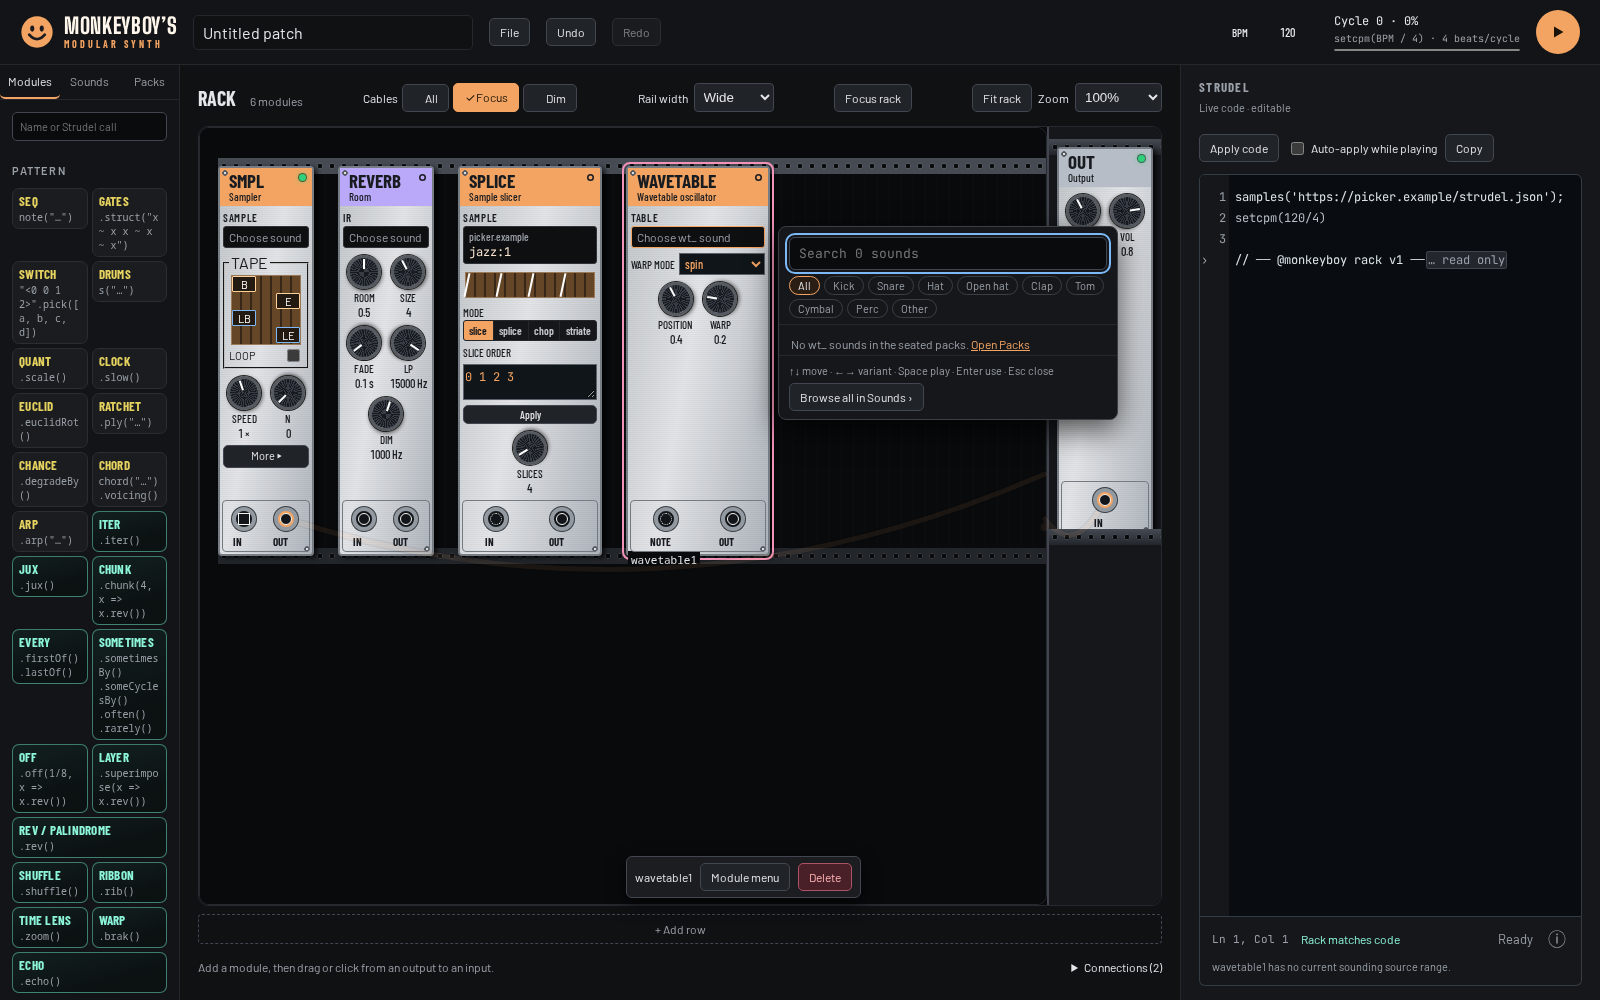
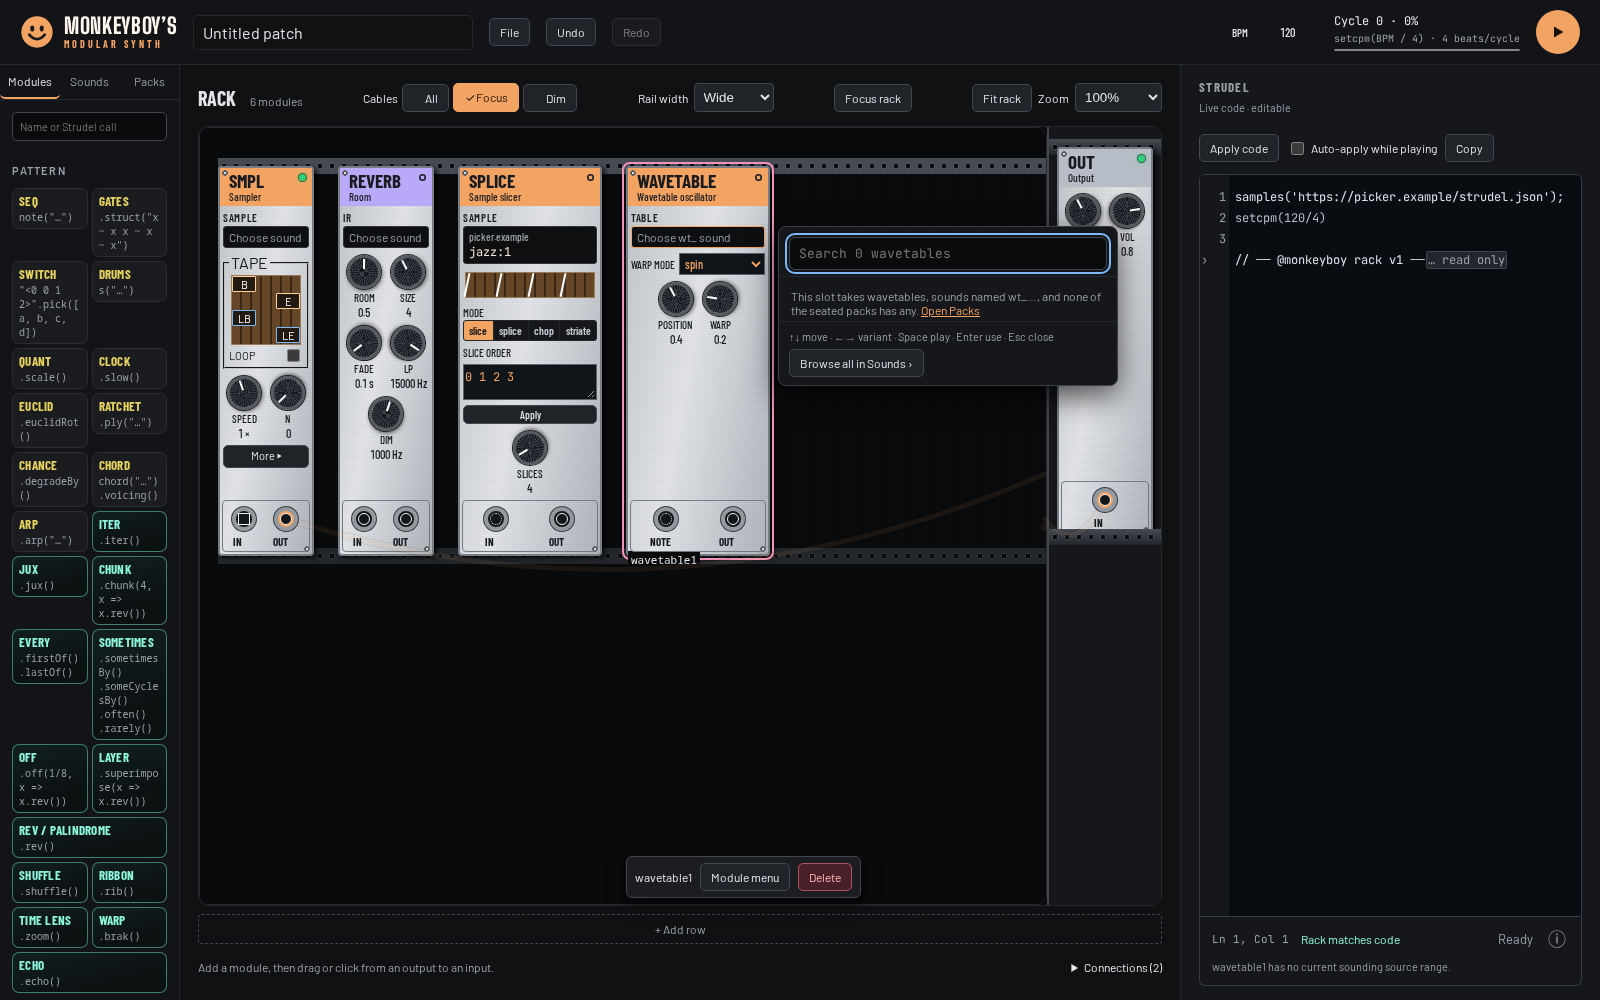
Show sounds as soon as a picker opens and stop false "not loaded" flags
Owner review found the picker looked flaky. Packs load on first use, so
after a reload every filled readout claimed its sound was "not loaded"
even with both packs seated. Readouts now judge a value only once every
seated inventory is known. The first view also lists the slot's sounds
after the patch's and recent ones, so it is never empty while packs are
seated, and seated packs keep their seating order. WAVETABLE drops the
drum kind chips and explains that it takes wt_ wavetables.

Changed region(s): [[0.4688, 0.248, 0.6875, 0.434], [0.6562, 0.372, 0.7188, 0.465]]

diff --git a/src/samples/SoundPicker.tsx b/src/samples/SoundPicker.tsx
@@ -122,24 +122,23 @@ export function SoundPicker({
   const index = soundIndex(resources).filter((sound) => !prefix || sound.name.startsWith(prefix))
   const packs = [...new Map(index.map((sound) => [sound.packKey, sound.pack]))]
   const filtered = !!query.trim() || !!kind || !!pack
-  const found = filtered
-    ? findSounds(index, { text: query, kind, pack }).map((sound): Row => ({
-        key: sound.name,
-        group: sound.pack,
-        groupKey: sound.packKey,
-        sound,
-        n: 0,
-      }))
-    : []
+  // Unfiltered, the list still shows sounds after the patch's and recent ones, so it never looks empty.
+  const found = (filtered ? findSounds(index, { text: query, kind, pack }) : index).map(
+    (sound): Row => ({ key: sound.name, group: sound.pack, groupKey: sound.packKey, sound, n: 0 }),
+  )
   const own = parseToken(value)
+  const listed = byPack(found.slice(0, SHOWN)).map((row) =>
+    row.sound.name === own?.name ? { ...row, n: own.n } : row,
+  )
   const rows = filtered
-    ? byPack(found.slice(0, SHOWN)).map((row) =>
-        row.sound.name === own?.name ? { ...row, n: own.n } : row,
-      )
-    : homeRows(resources, prefix, [
-        ['In this patch', patchSounds],
-        ['Recent', recentSounds()],
-      ])
+    ? listed
+    : [
+        ...homeRows(resources, prefix, [
+          ['In this patch', patchSounds],
+          ['Recent', recentSounds()],
+        ]),
+        ...listed,
+      ]
   const at = Math.min(active, rows.length - 1)
   const row = rows[at]
   const variant = (row: Row) => variants.get(row.key) ?? row.n
@@ -223,7 +222,7 @@ export function SoundPicker({
         aria-controls={`${id}-list`}
         aria-autocomplete="list"
         aria-activedescendant={row ? `${id}-${row.key}` : undefined}
-        placeholder={`Search ${index.length} sounds`}
+        placeholder={`Search ${index.length} ${prefix ? 'wavetable' : 'sound'}${index.length === 1 ? '' : 's'}`}
         value={query}
         onChange={(event) => {
           setQuery(event.target.value)
@@ -246,23 +245,26 @@ export function SoundPicker({
           action()
         }}
       />
-      <fieldset className="sound-picker-chips">
-        <legend className="sr-only">Kind</legend>
-        {([null, ...SOUND_KINDS] as const).map((option) => (
-          <button
-            key={option ?? 'All'}
-            type="button"
-            aria-pressed={kind === option}
-            onClick={() => {
-              setKind(kind === option ? null : option)
-              setActive(0)
-              refocus()
-            }}
-          >
-            {option ?? 'All'}
-          </button>
-        ))}
-      </fieldset>
+      {/* Kinds name drum sounds; a prefixed slot such as WAVETABLE has none. */}
+      {!prefix && (
+        <fieldset className="sound-picker-chips">
+          <legend className="sr-only">Kind</legend>
+          {([null, ...SOUND_KINDS] as const).map((option) => (
+            <button
+              key={option ?? 'All'}
+              type="button"
+              aria-pressed={kind === option}
+              onClick={() => {
+                setKind(kind === option ? null : option)
+                setActive(0)
+                refocus()
+              }}
+            >
+              {option ?? 'All'}
+            </button>
+          ))}
+        </fieldset>
+      )}
       {packs.length > 2 && (
         <fieldset className="sound-picker-chips">
           <legend className="sr-only">Pack</legend>
@@ -353,8 +355,8 @@ export function SoundPicker({
         {!busy && !playable && (
           <span>
             {prefix
-              ? `No ${prefix} sounds in the seated packs. `
-              : 'No sounds in the seated packs. '}
+              ? `This slot takes wavetables, sounds named ${prefix}…, and none of the seated packs has any. `
+              : 'The seated packs have no sounds. '}
             <button type="button" className="sound-picker-link" onClick={openPacks}>
               Open Packs
             </button>
@@ -366,9 +368,9 @@ export function SoundPicker({
         {found.length > SHOWN && (
           <span>
             Showing {SHOWN} of {found.length}
+            {filtered ? '' : '. Type to narrow, or pick a kind.'}
           </span>
         )}
-        {playable && !filtered && !rows.length && <span>Type to search, or pick a kind.</span>}
         {error && <span role="alert">{error}</span>}
       </output>
       <div className="sound-picker-footer">

diff --git a/src/samples/SamplePanel.tsx b/src/samples/SamplePanel.tsx
@@ -14,6 +14,7 @@ export function SampleSlot({
   patchSounds,
   locked,
   picking,
+  settled,
   drop,
   clear,
   browseAll,
@@ -27,6 +28,8 @@ export function SampleSlot({
   locked: boolean
   /** The Sounds dock is choosing for this slot. */
   picking: boolean
+  /** Every seated pack's inventory is known, so a sound none of them has is missing. */
+  settled: boolean
   /** Returns false when the rack refused the edit and reported why. */
   drop: (choice: SoundChoice) => boolean
   clear: () => void
@@ -41,21 +44,18 @@ export function SampleSlot({
   const value = slotValue(module)
   const choice = parseToken(value)
   const sound = choice ? findSound(resources, choice.name) : undefined
-  const loaded = !!choice && !!sound && choice.n < sound.count
+  // Packs load on first use, so before that a slot cannot tell a missing sound from an unloaded one.
+  const missing = !!value && settled && !(choice && sound && choice.n < sound.count)
   const parts = choice ? (sound ?? soundParts(choice.name, '')) : { bank: '', short: value }
   const caption = module.type === 'reverb' ? 'IR' : module.type === 'wavetable' ? 'TABLE' : 'SAMPLE'
   return (
-    <div
-      className="sample-slot"
-      data-value={value}
-      data-state={value && !loaded ? 'missing' : undefined}
-    >
+    <div className="sample-slot" data-value={value} data-state={missing ? 'missing' : undefined}>
       <span className="sample-slot-caption">{caption}</span>
       <button
         ref={readout}
         type="button"
         className="sample-readout"
-        aria-label={`Sound for ${module.id}: ${value || 'none'}${value && !loaded ? ', not loaded' : ''}`}
+        aria-label={`Sound for ${module.id}: ${value || 'none'}${missing ? ', not loaded' : ''}`}
         aria-haspopup="dialog"
         aria-expanded={open && !locked}
         title={value || undefined}
@@ -73,7 +73,7 @@ export function SampleSlot({
             <span className="sample-readout-token">
               {choice ? `${parts.short}:${choice.n}` : value}
             </span>
-            {!loaded && <span className="sample-readout-missing">not loaded</span>}
+            {missing && <span className="sample-readout-missing">not loaded</span>}
           </>
         ) : (
           <span className="sample-readout-empty">

diff --git a/src/rack/Rack.tsx b/src/rack/Rack.tsx
@@ -17,6 +17,7 @@ import { rememberSound } from '../samples/recentSounds'
 import type { SoundPick } from '../samples/SoundCrate'
 import { loadSamplePacks, type SamplePackResource } from '../strudel/engine'
 import { cartridges } from '../workspace/cartridges'
+import { packKey } from '../samples/packs'
 import {
   useEffect,
   useLayoutEffect,
@@ -709,6 +710,19 @@ export function Rack({
   const loadSounds = () =>
     loadSamplePacks(cartridges(sourceDocument).flatMap((entry) => (entry.pack ? [entry.pack] : [])))
   const patchSounds = patch.modules.map(slotValue).filter(Boolean)
+  // Unknown inventories, such as computed samples() calls, never settle.
+  const settled = cartridges(sourceDocument).every((entry) => {
+    const pack = entry.pack
+    return (
+      !!pack &&
+      sampleResources.some(
+        (resource) =>
+          resource.key === packKey(pack) &&
+          (resource.status === 'failed' ||
+            (resource.status === 'registered' && resource.sampleCount !== null)),
+      )
+    )
+  })
   const renderModules = (modules: Patch['modules']) =>
     modules.map((m) => {
       const spec = getModuleSpec(m.type)
@@ -848,6 +862,7 @@ export function Rack({
               patchSounds={patchSounds}
               locked={locked}
               picking={activePick?.module === m.id}
+              settled={settled}
               clear={() => {
                 const target = spec.sampleTarget
                 if (target) edit((p) => setValue(p, m.id, target.control, ''))

diff --git a/src/samples/crate.ts b/src/samples/crate.ts
@@ -67,6 +67,7 @@ export function variantCount(bank: SampleBank): number {
     ? bank.length
     : Math.max(0, ...Object.values(bank).map((paths) => paths.length))
 }
+/** Seated resources in cartridge order: factory packs, then setup order, which is how they register. */
 export function seatedResources(
   document: SourceDocument,
   resources: readonly SamplePackResource[],
@@ -74,7 +75,7 @@ export function seatedResources(
   const keys = new Set(
     cartridges(document).flatMap((entry) => (entry.pack ? [packKey(entry.pack)] : [])),
   )
-  return resources.filter((resource) => keys.has(resource.key))
+  return [...keys].flatMap((key) => resources.filter((resource) => resource.key === key))
 }
 
 /** Replace sounding atoms in one row, retaining rests, nesting and timing modifiers. */

diff --git a/docs/sound-crate.md b/docs/sound-crate.md
@@ -151,10 +151,12 @@ a readout, a search popup and a pick mode in the Sounds dock.
 Line one names the bank or pack (`RolandTR808`, `Dirt Samples`); line two, in
 monospace, is the rest of the token (`bd:3`, `808bd:3`). Long names end in an
 ellipsis. The accessible name and tooltip carry the full token. An empty slot reads
-“Choose sound” (“Choose wt\_ sound” on WAVETABLE). A value that no seated pack
-provides keeps its token, gains a dashed border and reads “not loaded”, as the old
-selector's “unavailable” option did. The whole panel still accepts dropped cards
-(#185).
+“Choose sound” (“Choose wt\_ sound” on WAVETABLE). Packs load on first use, so
+until every seated pack's inventory is known a filled slot shows its token without
+judging it. After that, a value that no seated pack provides gains a dashed border
+and reads “not loaded”, as the old selector's “unavailable” option did. Computed
+`samples()` setup never settles, so it never marks a slot missing. The whole panel
+still accepts dropped cards (#185).
 
 ### Search popup
 
@@ -163,21 +165,24 @@ its search box. Opening it loads the seated packs, as a first visit to Sounds do
 while they load, a loading line shows under any matches from loaded packs.
 
 - With no query or filter, it lists **In this patch** (the other slots' tokens) and
-  **Recent** (the last five sounds chosen this session; nothing is saved).
+  **Recent** (the last five sounds chosen this session; nothing is saved), then the
+  slot's sounds in pack order, so a seated pack's sounds always show. Packs appear
+  in seating order: factory packs, then setup order.
 - Results have one row per sound, grouped by pack, capped at 40 with “Showing 40 of
   N”. Ranking: the name starts with the query; then the part after the bank (`bd`
   in `RolandTR808_bd`) does; then the name contains it; then the kind does, so
   `kick` finds kicks. Ties keep pack and manifest order. A name repeated across packs
   keeps one row, the last registration, which is the one Strudel plays. Sounds with
   no variants are left out.
-- Kind chips filter the rows. With three or more seated packs, pack chips appear too.
+- Kind chips filter the rows. WAVETABLE has none, because kinds name drum sounds.
+  With three or more seated packs, pack chips appear too.
 - ↑/↓ move the active row. ←/→ change its variant and play it. Space plays it
   again, Enter chooses it, and Esc or a click outside closes with no change. Clicking
   a row chooses it, and the active row shows ‹ › for pointer flipping. Space never
   types, because sound names cannot contain spaces.
 - The footer offers **Browse all in Sounds ›** and, for a filled slot, **Clear slot**.
 - WAVETABLE lists only `wt_` sounds. Neither factory pack has any, so its empty state
-  points to Packs.
+  says that the slot takes wavetables, named `wt_…`, and points to Packs.
 - The search box is a combobox that owns a listbox through `aria-activedescendant`.
 
 Every route chooses through the panel's existing drop path, as one undo step with
@@ -238,7 +243,8 @@ Observed on 8 November 2026 with Node 24.22.2 and Playwright's Chromium.
   [runs and environment](evidence/sound-picker/latency.json) are recorded.
 - **Behaviour:** [`tests/browser/sound-picker.spec.mjs`](../tests/browser/sound-picker.spec.mjs)
   uses small stand-ins for the factory packs and a third pack, with WAV fixtures
-  served locally. It checks that no slot renders a list; the first view; ranking and
+  served locally. It checks that no slot renders a list; that no readout claims a
+  sound is missing before the packs load; the first view; ranking and
   grouping; that three quick → presses fetch only the last variant's audio file;
   Space; Enter choosing with focus back on the readout and code
   `s("RolandTR808_bd:3")`; one Undo restoring the source; Recent; kind and pack chips;
